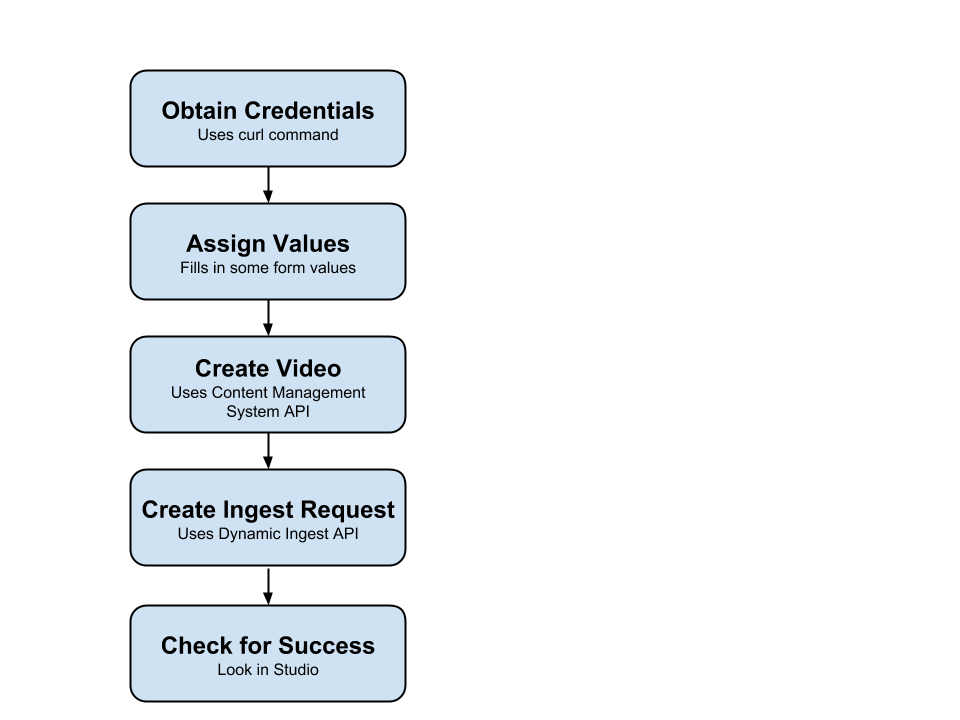
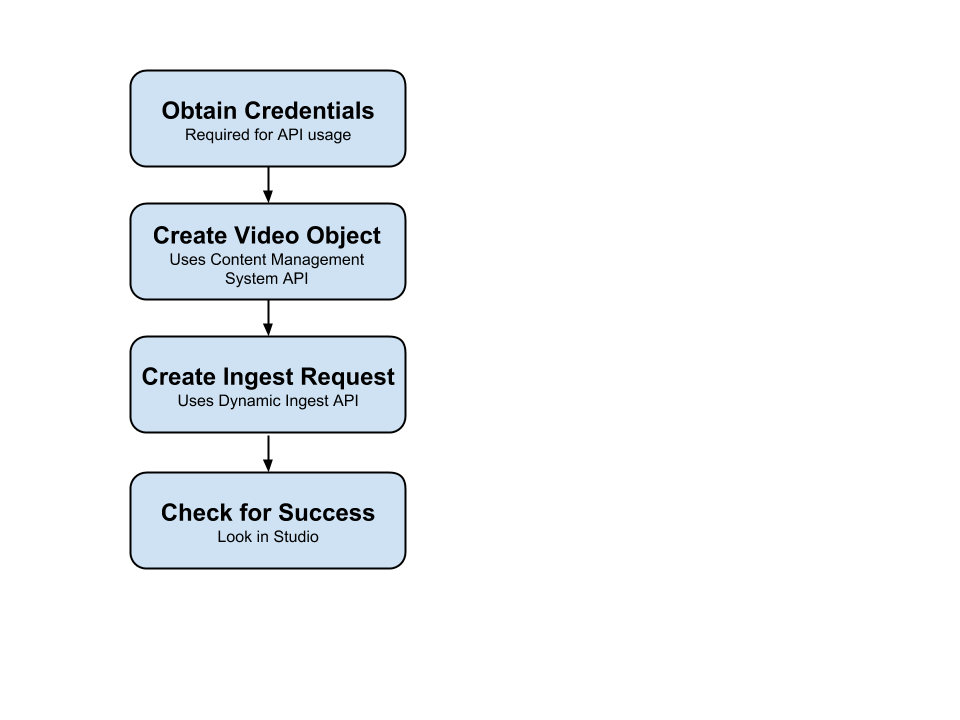
Minor updates

diff --git a/en/video-cloud/di-api/guides/quick-start-di.html b/en/video-cloud/di-api/guides/quick-start-di.html
@@ -42,15 +42,17 @@
 			<div id="top" class="section">
 				<h1>Quick Start to Dynamic Ingest</h1>
 				<!-- Place document intro sentence(s) here -->
+          <p>In this quick start you will create an ingest request that will create renditions from a video. A visual overview of the steps in this process are shown here:</p>
+          <img src="/en/video-cloud/di-api/guides/assets/di-quick-start-overview.png">
           <p>In this quick start you will perform the following tasks:</p>
           <ul>
-            <li>Use the Content Management System (CMS) API to create a video object</li>
-            <li>Use the Dynamic Ingest (DI) API, create an ingest request using the ID returned from the CMS API and an HTTP <code>POST</code> method</li>
-            <li>Verify the ingest request functioned correctly</li>
+            <li>Obtain credentials for API usage.</li>
+            <li>Fill in a form with obtained credentials, which are then dynamically inserted into following forms.</li>
+            <li>Use the Content Management System (CMS) API to create a video object.</li>
+            <li>Use the Dynamic Ingest (DI) API, create an ingest request using the ID returned from the CMS API.</li>
+            <li>Verify the ingest request functioned correctly.</li>
           </ul>
           <p class="BCL-aside">For details on the API used in this document you can view the <a href="//docs.brightcove.com/en/video-cloud/di-api/guides/overview-di.html">Dynamic Ingest API Overview</a> document and the <a href="//docs.brightcove.com/en/video-cloud/di-api/reference/versions/v1/index.html">Dynamic Ingest API</a> reference.</p>
-          <p>A visual overview of the tasks in this quick start are shown here:</p>
-          <img src="/en/video-cloud/di-api/guides/assets/di-quick-start-overview.png">
 			</div>
 			<div id="oauthproxy" class="section">
         <h2>OAuth proxy</h2>

diff --git a/en/video-cloud/brightcove-player/guides/plugin-guide.html b/en/video-cloud/brightcove-player/guides/plugin-guide.html
@@ -54,7 +54,7 @@
             <li>Add functionality</li>
             <li>Customize appearance (that cannot be done in standard CSS)</li>
           </ul>
-          <p class="BCL-aside">If you have ever used plugins for the Smart Player, they differ from plugins for the Brightcove player in many ways. For example, Smart Player plugins could only be coded in JavaScript, no HTML or CSS. Smart Player plugin JavaScript code had to be copied to every player to which the added functionality was needed, whereas a next player plugin can exist in one location and multiple players associated with it.</p>
+          <p class="BCL-aside">If you have ever used plugins for the Smart Player, they differ from plugins for the Brightcove player in many ways. For example, Smart Player plugins could only be coded in JavaScript, no HTML or CSS, while Brightcove Player plugins can use all three of those web development technologies. Also, Smart Player plugin JavaScript code had to be copied to every player to which the added functionality was needed, whereas Brightcove Player plugins can exist in one location and have multiple players associated with it.</p>
         </div>
       </div>
       <div id="defaultplugins" class="section">
